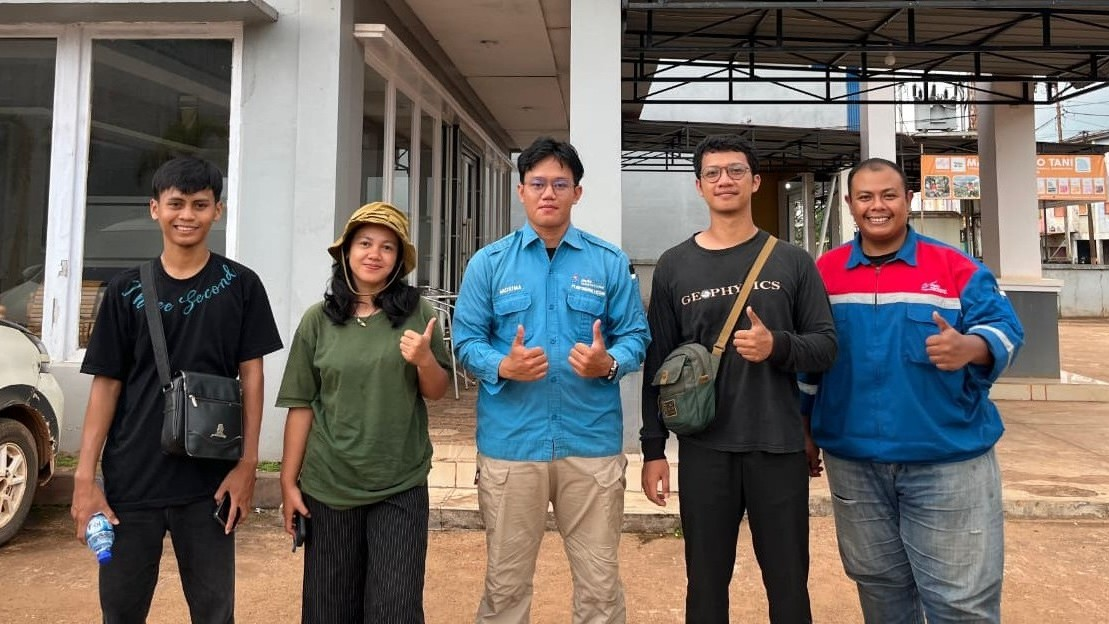
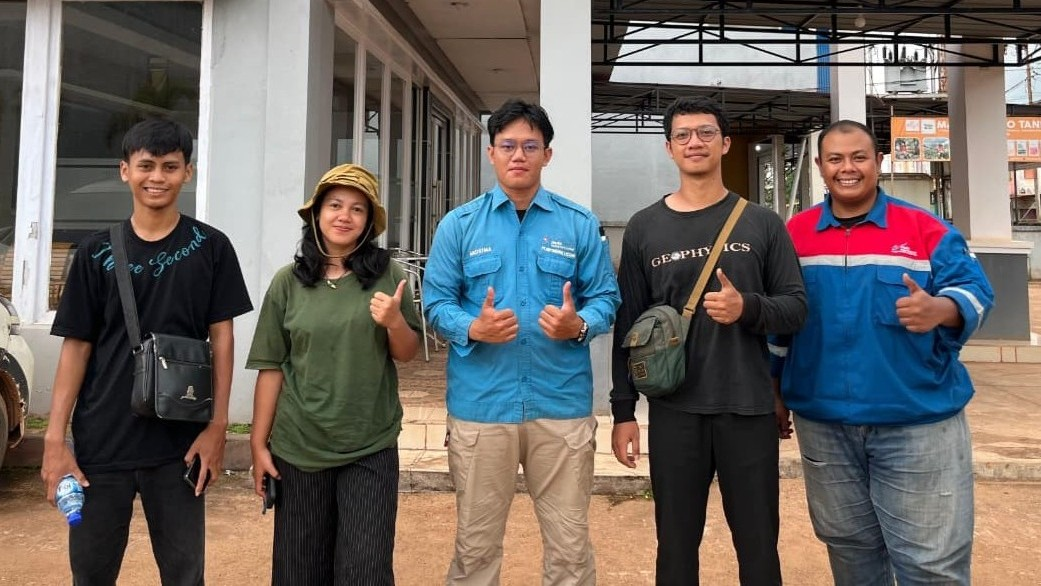
save

diff --git a/style.css b/style.css
@@ -3,13 +3,16 @@
 /* ========================================================
    SISTEM VARIABEL WARNA (TEMA GELAP & TERANG)
 =========================================================== */
+/* ========================================================
+   SISTEM VARIABEL WARNA (TEMA GELAP & TERANG)
+=========================================================== */
 :root {
     --accent: #b74b4b;
     
-    /* 🌙 Warna Default (Tema Gelap) */
+    /* 🌙 Tema Gelap: Warna transparan (0.4) agar tembus pandang */
     --bg: #000000;
     --text-color: #ffffff;
-    --header-bg: rgba(0, 0, 0, 0.75);
+    --header-bg: rgba(0, 0, 0, 0.4); 
     --muted: #bdbdbd;
     --border-color: #272727;
     
@@ -20,15 +23,15 @@
 }
 
 body.light-theme {
-    /* ☀ Warna saat Tema Terang Aktif */
+    /* ☀ Tema Terang: Warna transparan (0.5) agar tembus pandang */
     --bg: #ffffff;
-    --text-color: #000000; /* Hitam pekat agar mudah dibaca */
-    --header-bg: rgba(255, 255, 255, 0.95);
-    --muted: #222222; /* Abu-abu sangat gelap (hampir hitam) untuk teks deskripsi */
+    --text-color: #000000; 
+    --header-bg: rgba(255, 255, 255, 0.5); 
+    --muted: #222222; 
     --border-color: #cccccc;
     
     /* Elemen Card / Kotak */
-    --card-bg: #f4f4f4; /* Abu-abu terang agar kotak tidak menyatu dengan background putih */
+    --card-bg: #f4f4f4; 
     --hover-bg: #e8e8e8;
     --bar-bg: #d1d1d1;
 }
@@ -62,23 +65,93 @@ body{
 }
 
 /* ========================================================
-   HEADER & NAVIGASI
+   HEADER & NAVIGASI (FULL, BLUR KACA, & TEMBUS PANDANG)
 =========================================================== */
-header{
-    margin-top:20px;
-    position:fixed;
-    top:0;
-    left:0;
-    width:100%;
-    padding:1rem 10%;
-    background: var(--header-bg);
-    backdrop-filter:blur(8px);
-    display:flex;
-    justify-content:space-between;
-    align-items:center;
-    z-index:100;
+header {
+    position: fixed;
+    top: 0;
+    left: 0;
+    width: 100%;              /* Membentang penuh selebar layar */
+    margin-top: 0;            /* Menempel sempurna di ujung paling atas */
+    padding: 1.5rem 5%;       
+    background: var(--header-bg); /* Mengambil warna dinamis dari variabel tema */
+    
+    /* Efek Blur Kaca yang Diperkuat */
+    backdrop-filter: blur(15px); 
+    -webkit-backdrop-filter: blur(15px); /* Support untuk browser Safari/HP */
+    
+    display: flex;
+    justify-content: space-between;
+    align-items: center;
+    z-index: 1000;
     border-bottom: 1px solid var(--border-color);
     transition: background 0.3s ease, border-color 0.3s ease;
+}
+/* =====================================================
+   PENGATURAN HEADER & TAMPILAN KHUSUS HP (MAX-WIDTH 995px)
+====================================================== */
+@media (max-width: 995px) {
+    header {
+        padding: 1.2rem 7%; /* Menyesuaikan padding agar pas di layar kecil */
+    }
+
+    /* Menu dropdown saat diklik garis tiga */
+    nav {
+        position: absolute;
+        display: none;
+        top: 100%;
+        right: 5%;
+        width: 260px;
+        border-left: 3px solid var(--accent);
+        border-bottom: 3px solid var(--accent);
+        border-bottom-left-radius: 2rem;
+        border-top-left-radius: 2rem;
+        padding: 1.5rem 2rem;
+        background: var(--card-bg); /* Mengikuti tema gelap/terang */
+        backdrop-filter: blur(15px); /* Ikut diberi efek blur */
+        -webkit-backdrop-filter: blur(15px);
+        box-shadow: 0 10px 25px rgba(0, 0, 0, 0.2);
+    }
+
+    nav.active {
+        display: block;
+    }
+
+    nav a {
+        display: block;
+        font-size: 1.8rem;
+        margin: 1.5rem 0;
+        width: fit-content;
+    }
+
+    /* Memunculkan tombol menu garis tiga di HP */
+    .menu-btn {
+        display: block;
+        background: transparent;
+        color: var(--accent);
+        font-size: 2.8rem;
+        cursor: pointer;
+    }
+
+    /* Posisi tombol tema di HP (berdampingan di sebelah kiri tombol garis tiga) */
+    header .theme-toggle {
+        position: absolute;
+        right: 70px;
+        top: 50%;
+        transform: translateY(-50%);
+        font-size: 2rem;
+        cursor: pointer;
+        z-index: 102;
+        margin-left: 0;
+    }
+
+    /* Posisi tombol garis tiga di pojok kanan atas HP */
+    header .menu-btn {
+        position: absolute;
+        right: 7%;
+        top: 50%;
+        transform: translateY(-50%);
+    }
 }
 
 .logo{
@@ -657,11 +730,13 @@ span {
     left: 0;
 }
 
-/* =======EXPERIENCE SECTION (CARD DENGAN FOTO)====================================================== */
+/* =====================================================
+   EXPERIENCE SECTION (KARTU LEBIH TINGGI & RATA KE BAWAH)
+====================================================== */
 .experience-grid {
     display: grid;
     grid-template-columns: 1fr;
-    gap: 20px;
+    gap: 25px;
     width: 100%;
     max-width: 1100px;
     margin: 0 auto;
@@ -678,6 +753,7 @@ span {
     display: flex;
     flex-direction: column;
     height: 100%;
+    min-height: 560px; /* KUNCI: Menentukan tinggi minimal kartu agar memanjang ke bawah secara rapi dan lega */
 }
 
 .exp-card:hover {
@@ -685,9 +761,34 @@ span {
     transform: translateY(-5px);
 }
 
+.exp-content {
+    padding: 1.8rem; /* Memperbesar ruang di dalam kartu agar teks tidak terlalu mepet ke bawah */
+    display: flex;
+    flex-direction: column;
+    flex-grow: 1;    /* Membuat area teks mengisi sisa ruang bawah secara proporsional */
+}
+/* =====================================================
+   MEMPERBESAR KOTAK KARTU (EXP-CARD) AGAR LEBIH LEGA KE BAWAH
+====================================================== */
+.exp-card {
+    background-color: var(--card-bg); /* Warna latar belakang kartu */
+    border-radius: 12px;             /* Membuat sudut kartu melengkung rapi */
+    overflow: hidden;
+    box-shadow: 0 4px 15px rgba(0, 0, 0, 0.1);
+    display: flex;
+    flex-direction: column;
+    margin-bottom: 25px;
+    /* TAMBAHKAN INI JIKA INGIN KARTUNYA LEBIH TINGGI / LEGA KE BAWAH: */
+    min-height: 580px;               /* Mengatur tinggi minimal kartu, bisa dinaikkan jadi 600px atau 620px */
+}
+
+
+/* =====================================================
+   PENYESUAIAN FINAL BINGKAI FOTO EXPERIENCE (PAS & RAPI)
+====================================================== */
 .exp-img {
     width: 100%;
-    height: 200px; 
+    height: 200px;          /* Tinggi bingkai disesuaikan agar pas dengan lebar card */
     overflow: hidden;
     display: block;
     background-color: var(--bg);
@@ -695,8 +796,9 @@ span {
 
 .exp-img img {
     width: 100%;
-    height: 100%; 
-    object-fit: cover; 
+    height: 100%;
+    object-fit: cover;      
+    object-position: center; /* KUNCI: Menggeser posisi foto ke bawah (angka 70% bisa dinaikkan jadi 80% jika ingin lebih turun lagi) */
     display: block;
     transition: transform 0.4s ease;
 }

diff --git a/index.html b/index.html
@@ -210,7 +210,7 @@
 
         <!-- Experience 2 -->
         <div class="exp-card">
-          <div class="exp-img"><img src="foto-kerja-2.jpeg" alt="Field Survey"></div>
+          <div class="exp-img"><img src="foto-kerja-2.png" alt="Field Survey"></div>
           <div class="exp-content">
             <span class="exp-date">Jul 2025 – Dec 2025</span>
             <span class="exp-location">Bengkayang and Sambas, Indonesia</span>
@@ -310,12 +310,12 @@
   </footer>
 
   <!-- =========================================================================
-       SEMUA JAVASCRIPT DIGABUNG DI SINI (AGAR BERJALAN LANCAR & TIDAK BENTROK)
+       SEMUA JAVASCRIPT DIGABUNG DI SINI (BERSIH & TANPA BENTROK)
        ========================================================================= -->
   <script>
     document.addEventListener("DOMContentLoaded", () => {
       
-      // 1. FUNGSI TEMA (GELAP/TERANG) - Memperbaiki tema yang tidak mau pindah
+      // 1. FUNGSI TEMA (GELAP/TERANG)
       const themeBtn = document.getElementById("theme-btn");
       const themeIcon = themeBtn.querySelector("i");
       
@@ -367,7 +367,7 @@
         });
       });
 
-      // 4. FUNGSI ANIMASI PROGRESS BAR SKILLS - Memperbaiki skill yang tidak bergulir
+      // 4. FUNGSI ANIMASI PROGRESS BAR SKILLS (BAR & PERSEN SELESAI DALAM 1 DETIK)
       const skillItems = document.querySelectorAll(".skill-item");
       const skillObserver = new IntersectionObserver((entries) => {
         entries.forEach(entry => {
@@ -381,10 +381,14 @@
             if (!item.classList.contains("animated")) {
               item.classList.add("animated");
               
+              // Garis bar bergerak mulus dalam 1 detik (1s)
+              barSpan.style.transition = "width 1s ease-out";
               barSpan.style.width = targetValue + "%";
               
+              // Angka persen menghitung dari 0 ke max dalam waktu total 1 detik (1000ms)
               let currentCount = 0;
-              const speed = 1000 / targetValue; // Durasi animasi
+              const totalDuration = 1000; 
+              const speed = totalDuration / targetValue;
               
               let intervalId = setInterval(() => {
                 if (currentCount < targetValue) {
@@ -398,11 +402,12 @@
           } else {
             // Reset kembali ke 0% jika layarnya di-scroll jauh
             item.classList.remove("animated");
+            barSpan.style.transition = "none";
             barSpan.style.width = "0%";
             numberSpan.textContent = "0%";
           }
         });
-      }, { threshold: 0.6 }); // Akan berjalan ketika kotak skill sudah 60% masuk di layar
+      }, { threshold: 0.6 }); // Berjalan ketika kotak skill sudah 60% masuk di layar
 
       skillItems.forEach(item => {
         skillObserver.observe(item);
